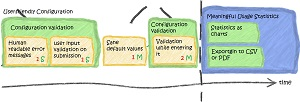
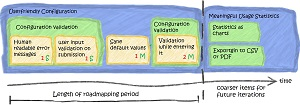
Thumbnail shows up on index page

diff --git a/index.html b/index.html
@@ -9,7 +9,7 @@ layout: default
       <h1><a href="{{ site.baseurl }}{{ post.url }}">{{ post.title }}</a></h1>
       
       <div class="entry">
-	    <img src="{{ post.thumbnail }}" alt="{{ post.title }}"/>
+	    <img src="{{ site.baseurl }}/{{ post.thumbnail }}" alt="{{ post.title }}"/>
         {{ post.excerpt }}
       </div>
 

diff --git a/_posts/2017-11-02-Agile-Roadmapping.md b/_posts/2017-11-02-Agile-Roadmapping.md
@@ -1,6 +1,7 @@
 ---
 layout: post
-title: Planning ahead the agile way  
+title: Planning ahead the agile way 
+thumbnail: images/agile-roadmapping/thumbnail.jpg
 ---
 
 Agile is shortsighted! In SCRUM you are only interested in whats going on in the next sprint! Kanban focusses only on what's next! Long term planning is not agile! Sounds familiar? The gap between short term (sprint-)planning and long term roadmaps is an often discussed focus point in the world of agile and an often cited reason why "our company cannot do agile". 
